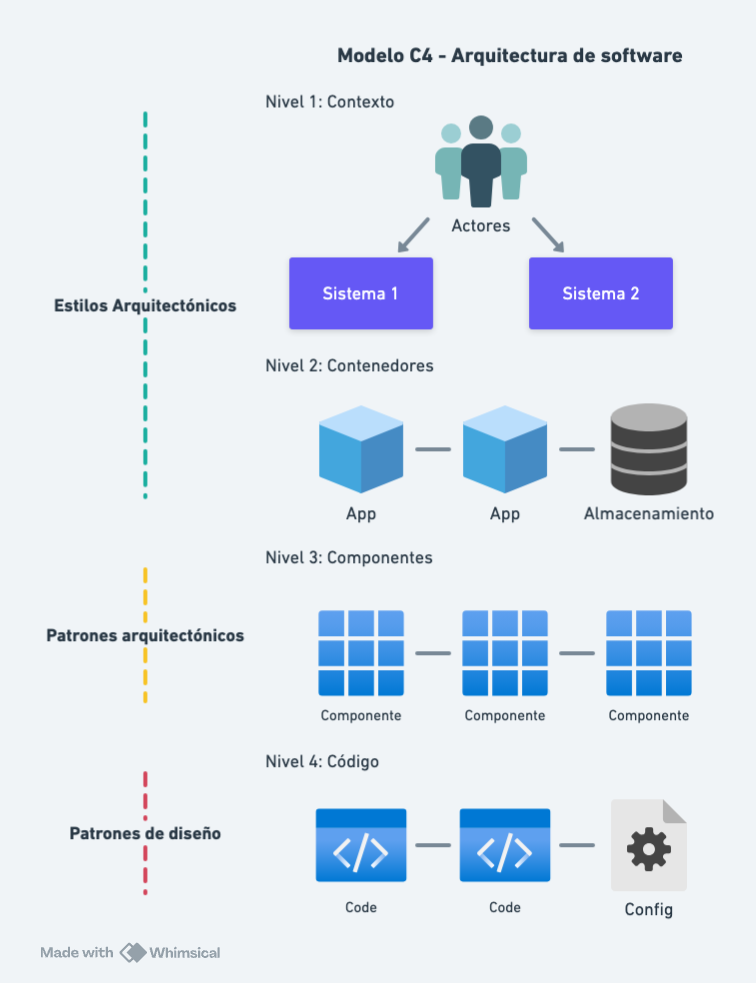
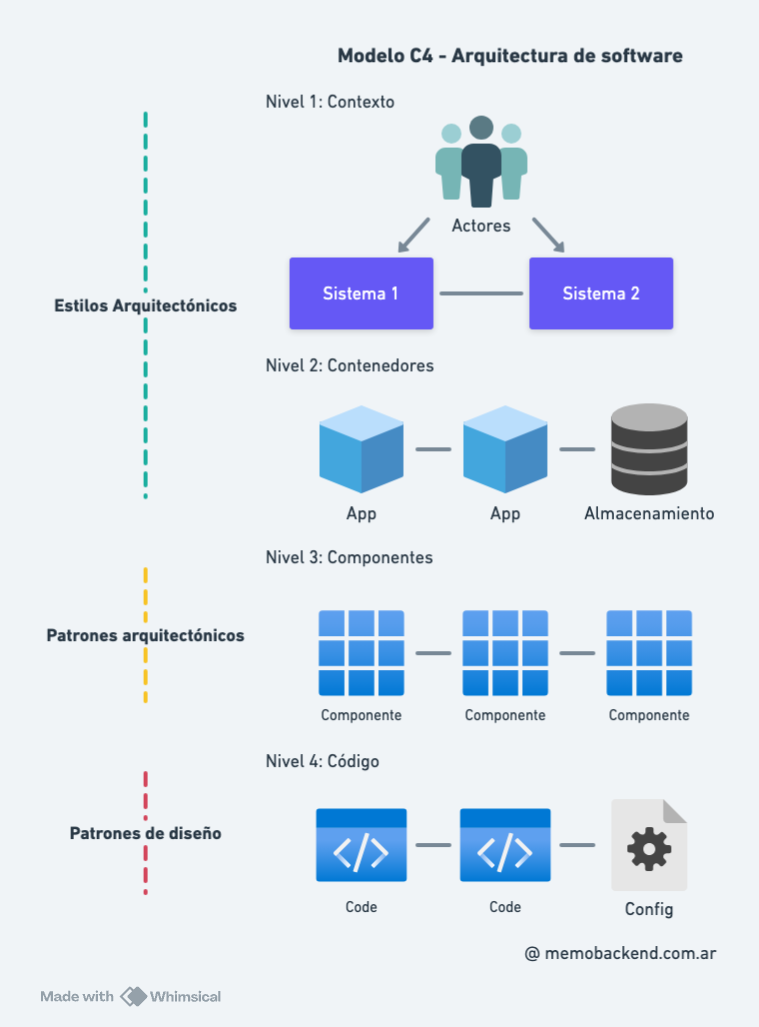
Agrego dire del sitio en el pie de la imagen

diff --git a/pages/draft/post-draft.md b/pages/draft/post-draft.md
@@ -1,7 +1,7 @@
 ---
 layout: post
-title: Casos de uso
-subtitle: Reglas y flujos de aplicación.
+title: Principios
+subtitle: Principios
 #gh-repo: daattali/beautiful-jekyll
 #gh-badge: [star, fork, follow]
 #thumbnail-img: https://es.wikipedia.org/wiki/Dualidad_onda_corp%C3%BAsculo#/media/Archivo:Dualite.jpg
@@ -11,275 +11,67 @@ tags: []
 author: Alejandro Urrestarazu
 ---
 
-## Casos de uso
+## Principios
+
+### Principio de la menor sorpresa - POLA(Principle of Least Astonishment)
 
 
-![Capataz dando ordenes a obreros](/assets/img/posts/openart-image_cañerias_colores-512.png){: .mx-auto.d-block :}
+### POLE (The Principle Of Least Effort o Zipf’s Law)
 
+### POOC (Principle Of Opportunity Cost)
 
-**Casos de Uso: Un enfoque clave para el desarrollo de software eficiente y efectivo**
+### POLRM (Principle Of Last Responsible Moment)
 
-En el mundo del diseño de software, los Casos de Uso son una herramienta fundamental para garantizar que las aplicaciones se desarrollen de manera eficiente y efectiva.
+### KISS (keep it simple stupid!)
 
-**¿Qué son los Casos de Uso?**
+The KISS principle reminds software developers to avoid complexity and to write code that is easy to implement and maintain.
 
-Un Caso de Uso es una definición clara del comportamiento o acción que un usuario puede realizar dentro de un sistema. Se enfoca en la perspectiva del usuario final, identificando las acciones más importantes que pueden tomar dentro del sistema. Los Casos de Uso son la base para el desarrollo de software, ya que nos permiten entender
-mejor las necesidades y expectativas del usuario.
+### YAGNI (You aren’t gonna need it)
 
+YAGNI principle reminds developers to not implement functionality until it is actually needed. 
 
-### Razones para determinar correctamente los casos de uso
+### DRY (Don’t repeat yourself)
 
-
-La definición de Casos de Uso ofrece varios beneficios en el desarrollo de software:
-
-*   **Mejora la comprensión del usuario**: Los Casos de Uso nos ayudan a comprender mejor las necesidades y expectativas del usuario final, lo que resulta en un diseño más intuitivo y fácil de usar.
-
-*   **Garantiza un desarrollo eficiente**: Al enfocarnos en las acciones más importantes que el usuario puede realizar, podemos priorizar las funcionalidades más importantes y asegurarnos de que estén bien diseñadas.
-
-*   **Aumenta la calidad del código**: Los Casos de Uso nos ayudan a garantizar que el código sea simple, legible y fácil de mantener.
-
-
-### Casos de uso según Clean Architecture y DDD
-
-
-La arquitectura limpia (Clean Architecture) es un patrón que puede ser aplicado en cualquier diseño de software, mientras que el Diseño dirigido por el dominio (Domain-Driven Design, DDD) es una filosofía más amplia sobre cómo modelar los conceptos empresariales para garantizar que el código refleja realmente los requisitos de la empresa. 
-
-
-El DDD puede ser aplicado dentro de una arquitectura limpia o en cualquier otra arquitectura de software.
-
-
-Ambas comparten una visión común sobre la importancia de separar las capas del software en función de su nivel de abstracción. Sin embargo, existen diferencias en la forma en que se aplican estos principios.
-
-En la **arquitectura limpia**, el diseño se centra principalmente en la separación de preocupaciones y la separación lógica de los diferentes niveles de abstracción del software (Entidades, casos de uso, controladores y frameworks), para minimizar las dependencias y mantener el código limpio, simple y fácil de mantener.
-
-En esta arquitectura las reglas del negocio están dentro de la capa de dominio, mientras que las reglas de aplicación están dentro de la capa de "Casos de uso". Esto nos da una pista clave de que **los casos de uso no son sinónimo de regla de negocio**.
-
-En el **DDD**, el diseño se centra en modelar los conceptos empresariales de forma precisa y comprensible, lo que resulta en un modelo de dominio fuerte, independiente del código y capaz de evolucionar independientemente del software. El DDD enfatiza la importancia de colaborar con los stakeholders (expertos en el dominio, arquitectos y desarrolladores) para garantizar que el código refleje realmente los requisitos de la empresa.
-En DDD los casos de uso corresponden a los "Application services" o servicios de aplicaciones, son la fachada exterior del dominio de nuestro sistema, por lo que son el punto de entrada-salida para interactuar con la funcionalidad interna. Estos servicios son responsables de controlar el flujo principal de la aplicación. 
-Aquí tenemos la segunda pista clave, **los casos de uso deben encargarse del flujo de la aplicación**. 
-
-
-### Modelando los casos de uso
-
-#### Requerimiento: registrar un usuario de una aplicación
-
-Ahora veamos un ejemplo de flujo clásico que es el de registrar un usuario de una aplicación. Aunque es muy clásico sigue existiendo el debate de cómo modelar con casos de usos (O que no se debe modelar). 
-Haciéndonos a un lado de este debate es interesante para ver y aprender.
-
-
-**Requerimientos**
-
-
-Los requerimientos iniciales que nos dieron para crear un nuevo usuario para el sistema son:
-
-* El usuario debe proporcionar los siguientes campos:
-    - Nombre de usuario: debe tener una longitud máxima de 20 caracteres y solo permite letras y números.
-    - Correo electrónico: debe ser único y válido, con soporte para etiquetas y dominios personalizados.
-    - Contraseña: Como entrada debe ser una cadena de texto simple (sin encriptación) que se guardará cifrada al momento de crear el usuario. Con validacion de al menos una mayúscula, al menos una minúscula, al menos un dígito, al menos un caracter especial (@#$%^&+=) y entre 8 y 12 caracteres.
-
-* Una vez creado el usuario, se enviará una notificación por correo electrónico a la dirección de email proporcionada.
-
-**Diagrama de flujo**
-
-
-Con estos requerimientos ya tenemos suficientes datos para empezar. Siempre es muy útil antes de diseñar los casos de usos comenzar con un diagrama de flujos.
-El siguiente diagrama muestra qué pasos se deben realizar para registrar un usuario:
-
-
-```mermaid
----
-title: Flujo para registrar un usuario.
----
-flowchart TD
-    A((Usuario)) --> B[Completar formulario]
-    B --> C[Validación de datos]
-    C --> D[Cifrado de contraseña]
-    D --> E[Creación / persistencia del usuario]
-    E --> F[Envío de notificación]
-```
-
-
-**Pasos**
-
-1. **Completar formulario**: El usuario ingresa su nombre, correo electrónico y contraseña.
-2. **Validación de datos**: Se verifican las validaciones de nombre, correo electrónico y contraseña
-para asegurarnos de que se cumplan los requisitos.
-3. **Cifrado de contraseña**: Si se cumplen las validaciones, el sistema cifra la contraseña para
-proteger el password del usuario.
-4. **Creación / persistencia del usuario**: El sistema guarda el usuario con los datos proporcionados.
-5. **Envío de notificación**: Se envía un email al usuario para notificar y confirmar su creación.
-
-
-**Diagrama de clases**
-
-
-Con estos pasos en mente podemos diseñar el diagrama de clases para los casos de uso.
-
-Supongamos que para la implementación crearemos una API que respetará el patrón de Clean Architecture.
-
-
-**Clean Architecture**
-
+DRY principle encourages developers to write reusable code that can be scaled and is easy to maintain.
 
 ---
 
+**DRY (No Repita Tu Voz):**
 
-![Clean Architecture diagram - blog.cleancoder.com](/assets/img/posts/Clean-Architecture-Diagram.jpg){: .mx-auto.d-block :}
+1. **Introducción al Principio DRY:**
+   - El principio DRY (No Repita Tu Voz) es fundamental en el desarrollo de software. Se centra en reducir la duplicación del código para extracto de funcionalidades comunes
+en componentes o funciones, con el fin de ahorrar tiempo, disminuir los errores y mejorar la mantenibilidad y la claridad del código.
 
-Clean Architecture diagram - blog.cleancoder.com
+2. **Explicación Detallada:**
+   - **Reutilice el código existente y cree componentes funcionales modulares:** Al reutilizar el código existente, se evita la duplication de código y se facilita la
+mantenibilidad del sistema. Crear componentes funcionales modulares permite que cada parte del sistema cumpla una función específica, facilitando su mantenimiento y
+reutilización.
 
-La parte más importante que debemos respetar de este diagrama es el flujo de control. Los **controladores** utilizan los **casos de uso de entrada** (Interfaces). Estos CU de input son implementados por los **Interactors** que son las reglas de negocio específicas de la aplicación (Ver Diagrama de flujo). Los Interactors a su vez hacen uso de los **Casos de uso de salida** (Interfaces) que a su vez son implementados por los presentadores que dependen a su vez de frameworks y drivers. 
+**KISS (Simplicia, Stúpido):**
 
-![Clean Architecture diagram - blog.cleancoder.com](/assets/img/posts/clean-architecure-flow-control.png){: .mx-auto.d-block :}
+1. **Introducción al Principio KISS:**
+   - El principio KISS (Simplicia, Stúpido) se enfoca en simplificar el código para evitar la confusión, reducir el tiempo de desarrollo y resolver problemas de depuración.
+Su objetivo principal es escribir código limpio y conciso que sea fácil de entender y escalable.
 
+2. **Explicación Detallada:**
+   - **Simplifique el código para facilitar su comprensión:** Es fundamental mantener el código simple y directo, evitando intrucciones complejas o confusas. Esto no solo
+facilita la comprensión inmediata del código, sino que también mejora la escalabilidad y la mantenibilidad.
+   - **Evite intrucciones en prol de complejidad innecesaria:** Un código simple es más fácil de mantener y auditing. Evite introducir características o intrucciones que no
+sean necesarias para el propósito actual del sistema.
 
----
+**YAGNI (No Vais a Necesitar Eso):**
 
+1. **Introducción al Principio YAGNI:**
+   - El principio YAGNI (No Vais a Necesitar Eso) promueve la prevención de la complejidad innecesaria al no agregar funcionalidades que no sean necesarias para el estado
+actual del desarrollo. Su fin principal es mantener el código minima y agile, sin Introducir características adicionales sin fin.
 
-Por un lado podemos pensar que nuestro punto de entrada a la funcionalidad de registro es a través de un **Controller** (UserController) que invoca un caso de uso para crear un usuario (UserManagerInputUseCase).
-
-Este caso de uso indicará el orden que se deben ir ejecutando los casos de usos particulares necesarios y propagando las **entidades** entre ellos.
-
-
-```mermaid
----
-title: Diagrama de clases para registrar un usuario. Nivel de servicios , gateways y casos de uso
----
-classDiagram
-    direction LR
-
-    CipherServiceBase64 --|> CipherOutputUseCase
-    GoogleEmailService --|> NotificationOutputUseCase
-
-    namespace services {
-        class CipherServiceBase64{
-            +String encrypt(String text)
-            +String decrypt(String encryption)
-        }
-
-        class GoogleEmailService{
-            +boolean send(String from, String to, String subject, String message)
-        }
-    }
-
-    UserDbGateway --|> UserDbOutputUseCase
-    namespace gateways{
-        class UserDbGateway{
-            +boolean create(User user)
-        }
-    }
-    namespace usecases_input {
-        class PasswordValidationInputUseCase {
-            <<Interface>>
-            +void validate(String password)
-        }
-
-        class UserManagerInputUseCase {
-            <<Interface>>
-            +boolean createUser(String name, String email, String password)
-        }
-    }
-
-    DefaultPasswordValidationInteractorUseCase --|> PasswordValidationInputUseCase
-    DefaultUserManagerInteractorUseCase --|> UserManagerInputUseCase
-
-    namespace usecases_interactor {
-        class DefaultPasswordValidationInteractorUseCase{
-            +void validate(String password)
-        }
-
-        class DefaultUserManagerInteractorUseCase{
-            -PasswordValidationInputUseCase passwordValidationInputUseCase
-            -UserDbOutputUseCase userDbOutputUseCase
-            -CipherOutputUseCase cipherOutputUseCase
-            -NotificationOutputUseCase notificationOutputUseCase
-
-            +boolean createUser(String name, String email, String password)
-        }
-    }
-
-    namespace usecases_output {
-        class CipherOutputUseCase{
-            <<Interface>>
-            +String encrypt(String text)
-            +String decrypt(String encryption)
-        }
-
-        class NotificationOutputUseCase{
-            <<Interface>>
-            +boolean send(String from, String to, String subject, String message)
-        }
-
-        class UserDbOutputUseCase{
-            <<Interface>>
-            +boolean create(User userForm)
-        }
-    }
-```
-
-En las entidades tenemos la informacion de nuestro dominio de negocio.
+2. **Explicación Detallada:**
+   - **No Agregue características sin fines:** Evite introducir características adicionales a menos que sean estrictamente necesarias para el estado actual del sistema. Esto
+no solo facilita la Mantenibilidad del código, sino que también evita el aumento innecesario de la complejidad.
+   - **Mantenga el código minima y funcional:** Concentre su esfuerzo en resolver los requisitos funcionales más inmediatos para minimizar la complejidad del sistema. Esto
+no solo facilita la Mantenibilidad, sino que también mejora la escalabilidad.
 
 
-```mermaid
----
-title: Diagrama de clases para registrar un usuario. Entidades del dominio
----
-classDiagram
-    direction LR
-
-    namespace entities {
-        class UserForm {
-            +String name
-            +String email
-            +String password
-        }
-
-        class Password {
-            +String encryption
-            +String cipherName
-        }
-
-        class Usuario {
-            +String nombre
-            +String email
-            +Password password
-        }
-    }
-```
-
-
-Para este ejemplo, consideramos las validaciones como casos de uso pero pueden resolverse dentro del dominio, esto dependerá del enfoque y el grado de enriquecimiento que tomemos para nuestras entidades del sistema. 
-(Ver post [Modelos Anémicos vs. Modelos Enriquecidos](https://memobackend.com.ar/2024-06-11-modelos-anemicos-enriquecidos/)).
-
-La única validación que decidí sacarla fuera del dominio es la de la contraseña ya que una vez que se ingresó en el formulario, se revisa que cumpla las condiciones y luego se propaga cifrada a través de todo el sistema para aumentar la seguridad.
-
-
-### Errores al diseñar los CU
-
-Los errores más comunes al desarrollar casos de uso pueden incluir:
-
-
-1. No tener claridad sobre el propósito del caso de uso y no alinearlo con las necesidades del negocio. Esto puede hacer que los resultados finales no sean lo esperado o no satisfagan a los usuarios.
-
-2. Ignorar el contexto empresarial en el cual opera el sistema y los cambios que pueden ocurrir en el futuro, lo que puede hacer que el caso de uso sea rígido y no adaptable.
-
-3. No tener suficiente abstracción en las interfaces y clases involucradas en la implementación del caso de uso, lo que puede hacer que el código sea dependiente de una tecnología específica o plataforma. Esto hace que el caso de uso no pueda ser reutilizado o transferido a otros entornos sin problemas.
-
-4. No hacer un análisis suficiente y exhaustivo de los casos de uso posibles y sus respectivas implementaciones, lo que puede llevar a fallas de diseño o funcionalidades no deseadas en el sistema.
-
-5. No tener un proceso de pruebas eficaz para garantizar la calidad del código y el comportamiento esperado en todo entorno.
-
-6. No tener suficiente documentación de los casos de uso, lo que puede provocar confusión en los desarrolladores y dificultades para entender el comportamiento del sistema.
-
-
-### Conclusión
-
-
-La herramienta clave para el desarrollo de software eficiente y efectivo son los Casos de Uso, ya
-que nos permiten enfocarnos en las acciones más importantes que un usuario puede tomar dentro del
-sistema, es decir, en el flujo de control de la aplicación. Hemos visto cómo un diagrama de flujo
-ayuda a seleccionar los casos de uso básicos que tendremos y pasarlos a un diagrama de clases nos da
-indicaciones para llevarlos al código.
-
-Además, esta herramienta nos ayuda a comprender mejor la perspectiva del usuario final y garantizar
-sistemas más intuitivos, fáciles de usar y eficientes en el proceso de desarrollo.
+En resumen, estos tres principios: DRY, KISS y YAGNI, son guías fundamentales para el desarrollo de software eficiente, limpio y mantenible. Al seguir estos acuerdos, los
+desarrolladores pueden evitar la duplicación del código, simplificar su trabajo y prevenir la Introducción de características innecesarias, lo que conduce a proyectos más
+fiables y fáciles de mantener.
